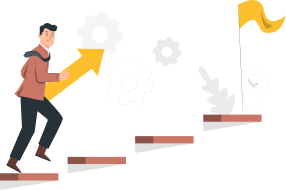
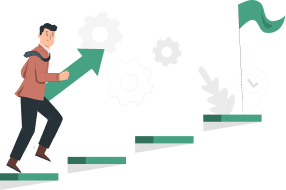
step 7 verification done,profile tutorial system done

diff --git a/Screens/AccountVerfifcation/EmployeeVerification.js b/Screens/AccountVerfifcation/EmployeeVerification.js
@@ -127,7 +127,7 @@ const EmployeeVerification = () => {
       case 6:
         return <Step6Payment onNext={goNext} />;
       case 7:
-        return <Step7Interview onNext={goNext} />;
+        return <Step7Interview onNext={goNext} interviewRequested={userDetails?.is_interview_requested} />;
 
       default:
         return null;
@@ -149,61 +149,6 @@ const EmployeeVerification = () => {
     if (isVerified(step) || isActive(step)) return "#fff";
     return "#c3c3c3";
   };
-
-  // const pickResume = async () => {
-  //   const result = await DocumentPicker.getDocumentAsync({
-  //     type: "application/pdf",
-  //   });
-
-  //   if (!result.canceled && result.assets?.length > 0) {
-  //     setResumeFile(result.assets[0]);
-  //   }
-  // };
-
-  // const removeResume = () => {
-  //   setResumeFile(null);
-  // };
-
-  // const submitContactInfo = async () => {
-  //   if (!postal || !location) {
-  //     alert("Fill the  all Input");
-  //     return;
-  //   }
-  //   const formData = new FormData();
-  //   formData.append("postal_code", postal);
-  //   formData.append("searchInput", location);
-  //   formData.append("images", {
-  //     uri: resumeFile.uri,
-  //     name: resumeFile.name,
-  //     type: "application/pdf",
-  //   });
-  //   try {
-  //     setSubmitting(true);
-  //     const token = await AsyncStorage.getItem("token");
-  //     const res = await fetch(`${API_URL}/step4-post`, {
-  //       method: "POST",
-  //       headers: {
-  //         Authorization: `Bearer ${token}`,
-  //         Accept: "application/json",
-  //       },
-  //       body: formData,
-  //     });
-
-  //     const result = await res.json();
-
-  //     if (result.status == 200) {
-  //       alert("Contact info saved successfully");
-  //     } else {
-  //       alert(result.message || "Something went wrong");
-  //     }
-  //   } catch (error) {
-  //     console.error("API Error:", error);
-  //     toastWarning("netweork error")
-
-  //   } finally {
-  //     setSubmitting(false);
-  //   }
-  // };
 
   if (activeStep !== null) {
     return (
@@ -265,6 +210,9 @@ const EmployeeVerification = () => {
                     color={getIconColor(1)}
                   />
                 </View>
+                {!isVerified(1) && (
+                  <Text style={styles.time}>1-2 min</Text>
+                )}
                 <Text style={[styles.number, getTextStyle(1)]}>01</Text>
               </TouchableOpacity>
               <TouchableOpacity
@@ -278,6 +226,9 @@ const EmployeeVerification = () => {
                   </Text>
                   <Feather name="phone" size={18} color={getIconColor(2)} />
                 </View>
+                {!isVerified(2) && (
+                  <Text style={styles.time}>1-2 min</Text>
+                )}
                 <Text style={[styles.number, getTextStyle(2)]}>02</Text>
               </TouchableOpacity>
             </View>
@@ -285,7 +236,6 @@ const EmployeeVerification = () => {
               <TouchableOpacity
                 style={[styles.box, getBoxStyle(3)]}
                 onPress={() => handleStepPress(3)}
-                //disabled={isDisabled(3)}
               >
                 <View style={styles.topRow}>
                   <Text style={[styles.label, getTextStyle(3)]}>
@@ -297,6 +247,9 @@ const EmployeeVerification = () => {
                     color={getIconColor(3)}
                   />
                 </View>
+                {!isVerified(3) && (
+                  <Text style={styles.time}>1-2 min</Text>
+                )}
                 <Text style={[styles.number, getTextStyle(3)]}>03</Text>
               </TouchableOpacity>
               <TouchableOpacity
@@ -312,7 +265,9 @@ const EmployeeVerification = () => {
                     color={getIconColor(4)}
                   />
                 </View>
-                <Text style={styles.time}>1-2 min</Text>
+                {!isVerified(4) && (
+                  <Text style={styles.time}>1-2 min</Text>
+                )}
                 <Text style={[styles.number, getTextStyle(4)]}>04</Text>
               </TouchableOpacity>
             </View>
@@ -332,7 +287,9 @@ const EmployeeVerification = () => {
                     color={getIconColor(5)}
                   />
                 </View>
-                <Text style={styles.time}>1-2 min</Text>
+                {!isVerified(5) && (
+                  <Text style={styles.time}>1-2 min</Text>
+                )}
                 <Text style={[styles.number, getTextStyle(5)]}>05</Text>
               </TouchableOpacity>
               <TouchableOpacity
@@ -350,7 +307,9 @@ const EmployeeVerification = () => {
                     color={getIconColor(6)}
                   />
                 </View>
-                <Text style={styles.time}>1-2 min</Text>
+                {!isVerified(6) && (
+                  <Text style={styles.time}>1-2 min</Text>
+                )}
                 <Text style={[styles.number, getTextStyle(6)]}>06</Text>
               </TouchableOpacity>
             </View>
@@ -370,7 +329,9 @@ const EmployeeVerification = () => {
                     color={getIconColor(7)}
                   />
                 </View>
-                <Text style={styles.time}>1-2 min</Text>
+                {!isVerified(7) && (
+                  <Text style={styles.time}>1-2 min</Text>
+                )}
                 <Text style={[styles.number, getTextStyle(7)]}>07</Text>
               </TouchableOpacity>
             </View>

diff --git a/Screens/AccountVerfifcation/Step7Interview.js b/Screens/AccountVerfifcation/Step7Interview.js
@@ -8,35 +8,34 @@ import {
 import GradientButton from "../../components/GradientButton";
 import AsyncStorage from "@react-native-async-storage/async-storage";
 import { API_URL } from "../../api/ApiUrl";
+import { toastError, toastSuccess } from "../../utils/toast";
 
-const Step7Interview = () => {
+const Step7Interview = ({ onNext, interviewRequested }) => {
   const [loading, setLoading] = useState(false);
-  const [isInterviewRequested, setIsInterviewRequested] = useState(0);
+  const [isInterviewRequested, setIsInterviewRequested] = useState(interviewRequested);
 
-  const loadUser = async () => {
-    const userStr = await AsyncStorage.getItem("user");
-    if (!userStr) return;
-    const user = JSON.parse(userStr);
-    console.log("11111", user);
-    setIsInterviewRequested(user?.is_interview_requested);
-  };
   useEffect(() => {
-    loadUser();
+    setIsInterviewRequested(interviewRequested);
   }, []);
 
   const handleFinish = async () => {
     try {
       setLoading(true);
       const token = await AsyncStorage.getItem("token");
-      console.log(token);
-      const response = await fetch(`${API_URL}/request_interview`, {
+      const response = await fetch(`${API_URL}/request-interview`, {
         method: "POST",
         headers: {
           "Content-Type": "application/json",
           Authorization: `Bearer ${token}`,
         },
       });
-      const result = await response.json();
+      const data = await response.json();
+      if(data.status === 200) {
+        toastSuccess(data.message);
+        setIsInterviewRequested(data.is_interview_requested);
+      } else {
+        toastError('Unable to submit your interview request. Please try again.');
+      }
     } catch (error) {
       console.log("Error:", error);
     } finally {
@@ -48,14 +47,6 @@ const Step7Interview = () => {
     <>
       <Text style={styles.setptext}>STEP 7</Text>
       <Text style={styles.headtext}>Interview & Background Check</Text>
-      <View>
-        <Text style={styles.setptext}>
-          Lorem ipsum dolor sit amet, consectetur adipiscing elit, sed do
-          eiusmod tempor incididunt ut labore et dolore magna aliqua. Ut enim ad
-          minim veniam, quis nostrud exercitation ullamco laboris nisi ut
-          aliquip ex ea commodo consequat.
-        </Text>
-      </View>
       {isInterviewRequested == 1 ? (
         <View style={styles.thankcontainer}>
           <Text style={styles.title}>
@@ -71,7 +62,7 @@ const Step7Interview = () => {
       ) : (
         <GradientButton onPress={handleFinish} loading={loading} />
       )}
-      <TouchableOpacity style={styles.nextBtn}>
+      <TouchableOpacity style={styles.nextBtn} onPress={onNext}>
         <Text style={styles.nextText}>Finish</Text>
       </TouchableOpacity>
     </>

diff --git a/components/ProfileTutorial.js b/components/ProfileTutorial.js
@@ -6,6 +6,8 @@ import GroupJobPostEmployee from "../assets/images/GroupJobPostEmployee.png";
 // import GroupNext from "../assets/images/GroupNext.png";
 import GroupNextEmployee from "../assets/images/GroupNextEmployee.png";
 import GroupNextEmployer from "../assets/images/GroupNextEmployer.png";
+import AsyncStorage from "@react-native-async-storage/async-storage";
+import { API_URL } from "../api/ApiUrl";
 
 const ProfileTutorial = ({
   role = "employer",
@@ -15,8 +17,30 @@ const ProfileTutorial = ({
   const pagerRef = useRef(null);
   const [page, setPage] = useState(0);
 
-  const goNext = () => {
-    pagerRef.current.setPage(1);
+  const goNext = async () => {
+    try {
+      const token = await AsyncStorage.getItem("token");
+      const res = await fetch(`${API_URL}/profile-tutorial-update`, {
+        method: "POST",
+        headers: {
+          Authorization: `Bearer ${token}`,
+          Accept: "application/json",
+          "Content-Type": "application/json",
+        },
+        body: JSON.stringify({
+          title: "profile tutorial",
+        }),
+      });
+
+      const data = await res.json();
+      console.log(data);
+      
+      if (data.status === 200) {
+        pagerRef.current?.setPage(1);
+      }
+    } catch (error) {
+      console.log("Tutorial API error:", error);
+    }
   };
 
   const isEmployer = role === "employer";
@@ -95,13 +119,6 @@ const ProfileTutorial = ({
                 </>
               ) : (
                 <>
-                  {/* <Text style={styles.modalDescriptionLine}>
-                                        There is still more to do... Promote your services for free and perfect jobs will find you
-                                    </Text>
-                                    <Text style={styles.modalDescriptionLine}>
-                                        and apply to your first job
-                                    </Text> */}
-
                   <Text style={styles.modalDescriptionLine}>
                     There is still more to do... Promote your services for free
                     and perfect jobs will find you
@@ -212,7 +229,7 @@ const styles = StyleSheet.create({
     justifyContent: "center",
     paddingVertical: 12,
     paddingHorizontal: 30,
-    marginBottom: 40,
+    marginBottom: 35,
     marginTop: 2,
     elevation: 1,
   },

diff --git a/Screens/EmployerDashboardPage/EmployerDashboard.js b/Screens/EmployerDashboardPage/EmployerDashboard.js
@@ -29,7 +29,7 @@ import ProfileTutorial from "../../components/ProfileTutorial";
 const EmployerDashboard = () => {
   const [activeTab, setActiveTab] = useState("jobs");
   const [employees, setEmployees] = useState([]);
-  const [empDashModal, setEmpDashModal] = useState(true);
+  const [empDashModal, setEmpDashModal] = useState(false);
   const [loading, setLoading] = useState(false);
   const [menuVisible, setMenuVisible] = useState(false);
   const navigation = useNavigation();
@@ -64,6 +64,9 @@ const EmployerDashboard = () => {
           },
         );
         const data = await res.json();
+        if(data?.skip_tutorial_popup_employer == 0) {
+          setEmpDashModal(true);
+        }
         if (!data?.suggested_profiles || data.suggested_profiles.length === 0) {
           setHasMore(false);
           return;

diff --git a/components/Footer.js b/components/Footer.js
@@ -18,7 +18,6 @@ const Footer = () => {
   const { refreshUser } = useNotifications();
   const isActive = (routeName) => route.name === routeName;
   const handleSwitchAccount = async () => {
-    console.log("SWITCH BUTTON PRESSED 🔥");
     try {
       const token = await AsyncStorage.getItem("token");
 

diff --git a/Screens/DashboardPage/Dashboard.js b/Screens/DashboardPage/Dashboard.js
@@ -65,6 +65,9 @@ const Dashboard = () => {
           }
         );
         const data = await res.json();
+        if(data?.skip_tutorial == 0) {
+          setEmployeeDashModal(true);
+        }
         if (!data?.gigs || data.gigs.length === 0) {
           setHasMore(false);
           return;
